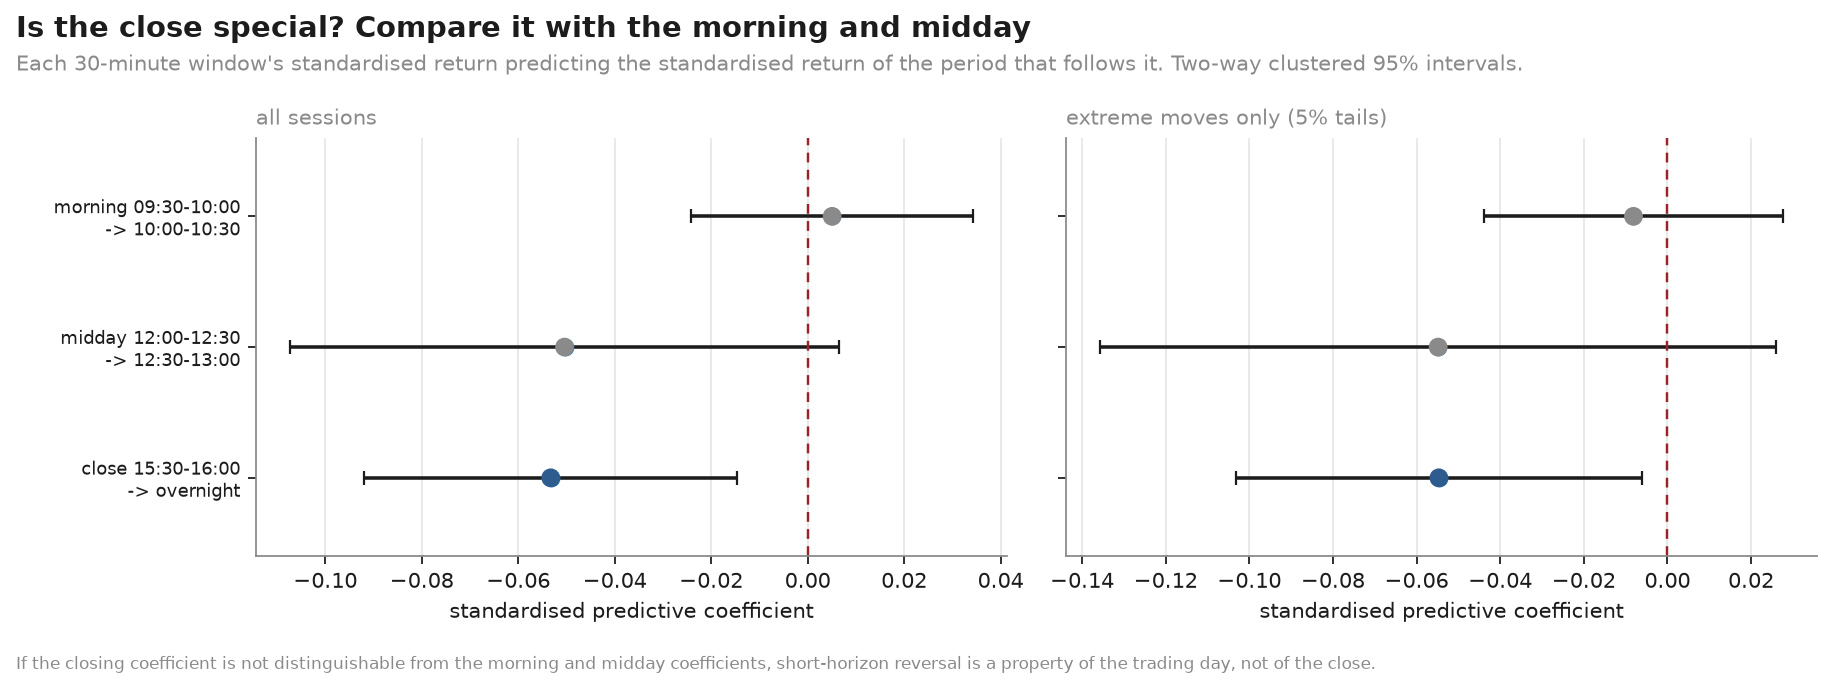
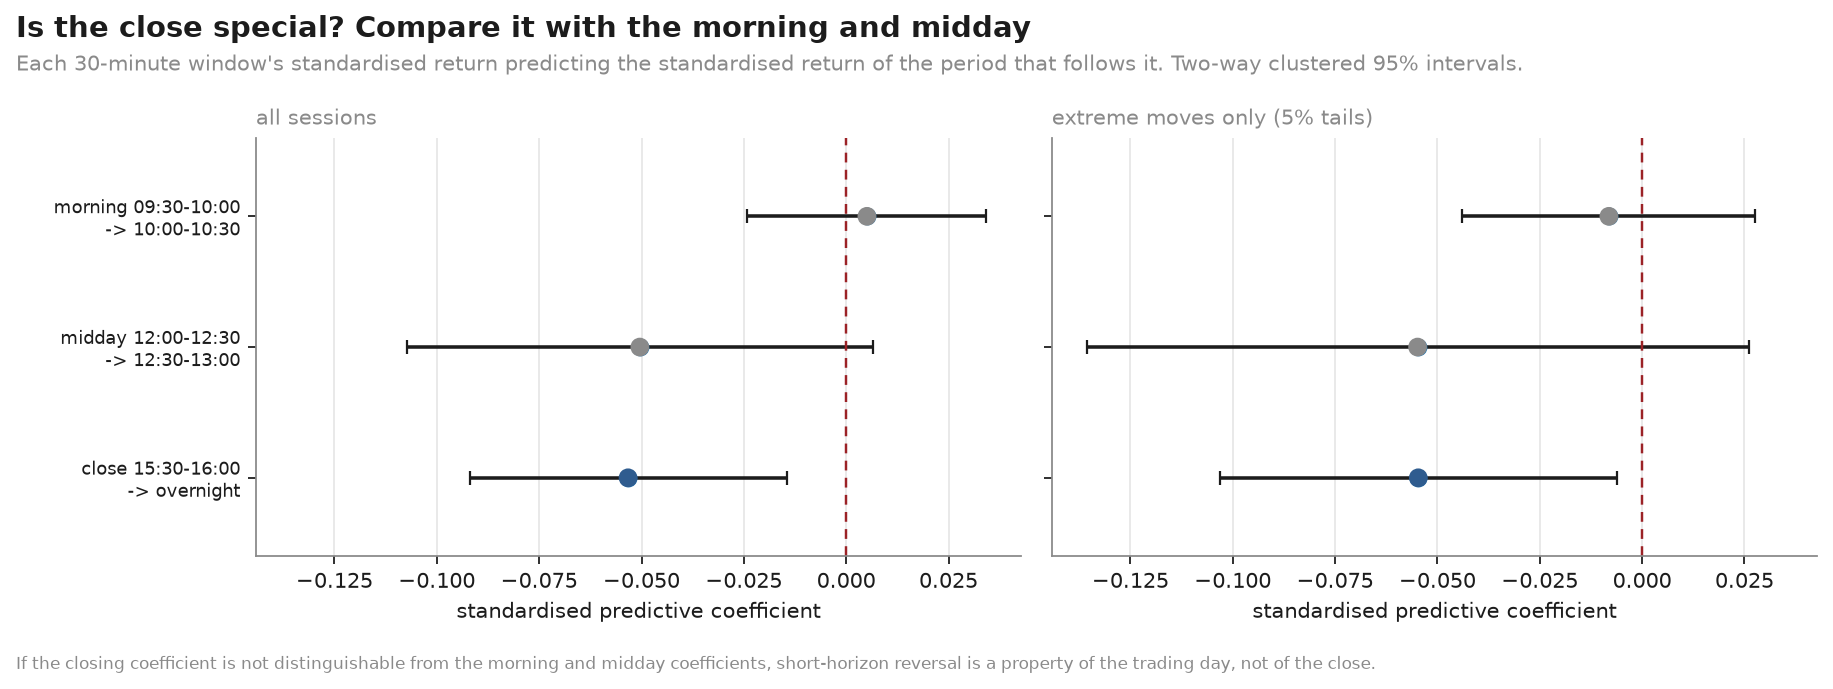
fix: share the x-axis across both panels of the time-of-day figure
The two panels were auto-scaled independently, so the closing and midday
estimates -- which are the whole point of the comparison -- sat at visibly
different horizontal positions despite near-identical values (-0.053 vs -0.055).
A shared axis makes the close-equals-midday result read directly.

diff --git a/src/closingbell/plots.py b/src/closingbell/plots.py
@@ -330,7 +330,10 @@ def fig_rolling(roll: pd.DataFrame) -> Path:
 # 9: time-of-day comparison
 # --------------------------------------------------------------------------
 def fig_time_of_day(tod: pd.DataFrame, tod_ext: pd.DataFrame) -> Path:
-    fig, axes = plt.subplots(1, 2, figsize=(11.4, 3.5), sharey=True)
+    # Both panels share an x-axis: the figure exists to compare coefficient
+    # magnitudes, and independent auto-scaling would place near-identical
+    # estimates at visibly different positions across the two panels.
+    fig, axes = plt.subplots(1, 2, figsize=(11.4, 3.5), sharey=True, sharex=True)
     for ax, d, lab in [(axes[0], tod, "all sessions"),
                        (axes[1], tod_ext, "extreme moves only (5% tails)")]:
         d = d.sort_values("window")
